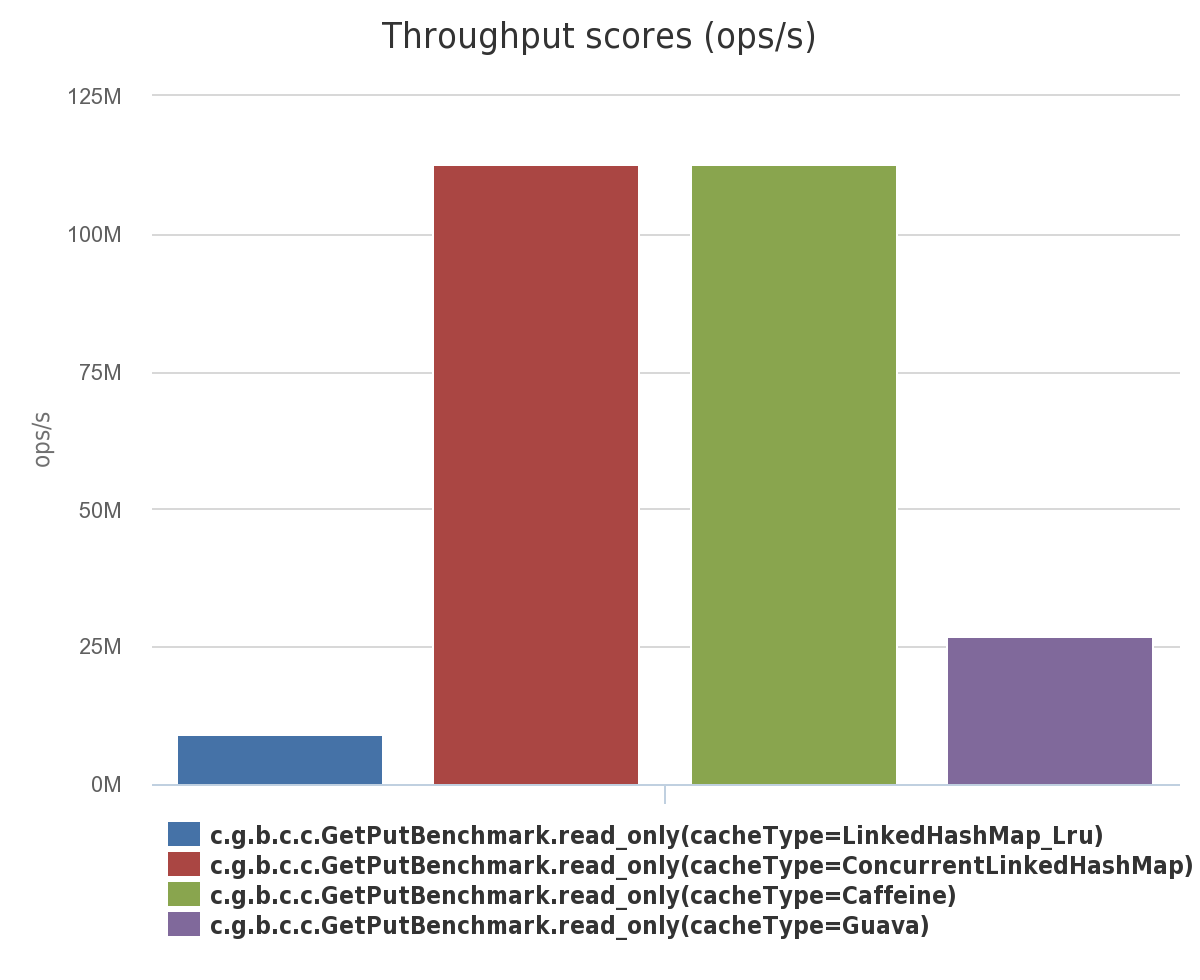
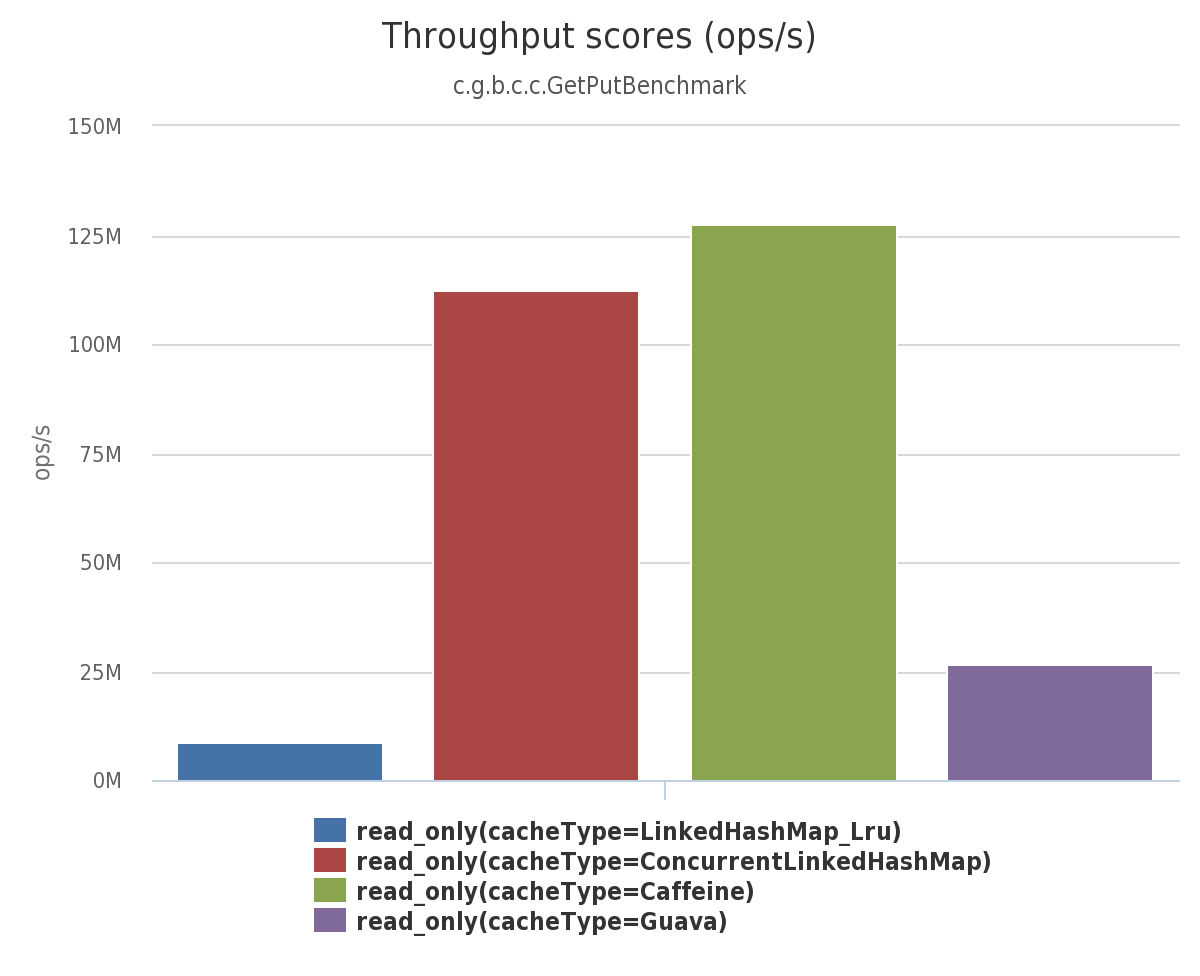
Pad the drain status field
Profiling shows that this field is hot, especially after the last change
which avoids the maintenance penalty on calling threads. By padding this
field the read performance is increased due to avoiding false sharing of
the cache line.

diff --git a/caffeine/src/main/java/com/github/benmanes/caffeine/cache/BoundedBuffer.java b/caffeine/src/main/java/com/github/benmanes/caffeine/cache/BoundedBuffer.java
@@ -57,7 +57,7 @@ final class BoundedBuffer<E> extends StripedBuffer<E> {
     return new RingBuffer<>(e);
   }
 
-  static final class RingBuffer<E> extends ReadAndWriteCounterRef implements Buffer<E> {
+  static final class RingBuffer<E> extends BBHeader.ReadAndWriteCounterRef implements Buffer<E> {
     final AtomicReference<E>[] buffer;
 
     @SuppressWarnings({"unchecked", "cast", "rawtypes"})
@@ -121,44 +121,48 @@ final class BoundedBuffer<E> extends StripedBuffer<E> {
   }
 }
 
-abstract class PadReadCounter {
-  long p00, p01, p02, p03, p04, p05, p06, p07;
-  long p30, p31, p32, p33, p34, p35, p36, p37;
-}
+/** The namespace for field padding through inheritance. */
+final class BBHeader {
 
-/** Enforces a memory layout to avoid false sharing by padding the read count. */
-abstract class ReadCounterRef extends PadReadCounter {
-  static final long READ_OFFSET =
-      UnsafeAccess.objectFieldOffset(ReadCounterRef.class, "readCounter");
-
-  volatile long readCounter;
-
-  void lazySetReadCounter(long count) {
-    UnsafeAccess.UNSAFE.putOrderedLong(this, READ_OFFSET, count);
-  }
-}
-
-abstract class PadWriteCounter extends ReadCounterRef {
-  long p00, p01, p02, p03, p04, p05, p06, p07;
-  long p30, p31, p32, p33, p34, p35, p36, p37;
-}
-
-/** Enforces a memory layout to avoid false sharing by padding the write count. */
-abstract class ReadAndWriteCounterRef extends PadWriteCounter {
-  static final long WRITE_OFFSET =
-      UnsafeAccess.objectFieldOffset(ReadAndWriteCounterRef.class, "writeCounter");
-
-  volatile long writeCounter;
-
-  ReadAndWriteCounterRef(int writes) {
-    UnsafeAccess.UNSAFE.putOrderedLong(this, WRITE_OFFSET, writes);
+  static abstract class PadReadCounter {
+    long p00, p01, p02, p03, p04, p05, p06, p07;
+    long p30, p31, p32, p33, p34, p35, p36, p37;
   }
 
-  long relaxedTail() {
-    return UnsafeAccess.UNSAFE.getLong(this, WRITE_OFFSET);
+  /** Enforces a memory layout to avoid false sharing by padding the read count. */
+  static abstract class ReadCounterRef extends PadReadCounter {
+    static final long READ_OFFSET =
+        UnsafeAccess.objectFieldOffset(ReadCounterRef.class, "readCounter");
+
+    volatile long readCounter;
+
+    void lazySetReadCounter(long count) {
+      UnsafeAccess.UNSAFE.putOrderedLong(this, READ_OFFSET, count);
+    }
   }
 
-  boolean casWriteCounter(long expect, long update) {
-    return UnsafeAccess.UNSAFE.compareAndSwapLong(this, WRITE_OFFSET, expect, update);
+  static abstract class PadWriteCounter extends ReadCounterRef {
+    long p00, p01, p02, p03, p04, p05, p06, p07;
+    long p30, p31, p32, p33, p34, p35, p36, p37;
+  }
+
+  /** Enforces a memory layout to avoid false sharing by padding the write count. */
+  static abstract class ReadAndWriteCounterRef extends PadWriteCounter {
+    static final long WRITE_OFFSET =
+        UnsafeAccess.objectFieldOffset(ReadAndWriteCounterRef.class, "writeCounter");
+
+    volatile long writeCounter;
+
+    ReadAndWriteCounterRef(int writes) {
+      UnsafeAccess.UNSAFE.putOrderedLong(this, WRITE_OFFSET, writes);
+    }
+
+    long relaxedTail() {
+      return UnsafeAccess.UNSAFE.getLong(this, WRITE_OFFSET);
+    }
+
+    boolean casWriteCounter(long expect, long update) {
+      return UnsafeAccess.UNSAFE.compareAndSwapLong(this, WRITE_OFFSET, expect, update);
+    }
   }
 }

diff --git a/caffeine/src/main/java/com/github/benmanes/caffeine/cache/BoundedLocalCache.java b/caffeine/src/main/java/com/github/benmanes/caffeine/cache/BoundedLocalCache.java
@@ -48,7 +48,6 @@ import java.util.concurrent.ConcurrentHashMap;
 import java.util.concurrent.Executor;
 import java.util.concurrent.ForkJoinPool;
 import java.util.concurrent.TimeUnit;
-import java.util.concurrent.atomic.AtomicReference;
 import java.util.concurrent.locks.Lock;
 import java.util.concurrent.locks.ReentrantLock;
 import java.util.function.BiFunction;
@@ -61,6 +60,8 @@ import javax.annotation.Nullable;
 import javax.annotation.concurrent.GuardedBy;
 import javax.annotation.concurrent.ThreadSafe;
 
+import com.github.benmanes.caffeine.base.UnsafeAccess;
+import com.github.benmanes.caffeine.cache.BoundedLocalCache.DrainStatus;
 import com.github.benmanes.caffeine.cache.References.InternalReference;
 import com.github.benmanes.caffeine.cache.stats.DisabledStatsCounter;
 import com.github.benmanes.caffeine.cache.stats.StatsCounter;
@@ -80,7 +81,8 @@ import com.github.benmanes.caffeine.locks.NonReentrantLock;
  * @param <V> the type of mapped values
  */
 @ThreadSafe
-abstract class BoundedLocalCache<K, V> extends AbstractMap<K, V> implements LocalCache<K, V> {
+abstract class BoundedLocalCache<K, V> extends BLCHeader.DrainStatusRef<K, V>
+    implements LocalCache<K, V> {
 
   /*
    * This class performs a best-effort bounding of a ConcurrentHashMap using a page-replacement
@@ -119,7 +121,6 @@ abstract class BoundedLocalCache<K, V> extends AbstractMap<K, V> implements Loca
   static final long MAXIMUM_CAPACITY = Long.MAX_VALUE - Integer.MAX_VALUE;
 
   final ConcurrentHashMap<Object, Node<K, V>> data;
-  final AtomicReference<DrainStatus> drainStatus;
   final Consumer<Node<K, V>> accessPolicy;
   final Buffer<Node<K, V>> readBuffer;
   final Runnable drainBuffersTask;
@@ -139,7 +140,6 @@ abstract class BoundedLocalCache<K, V> extends AbstractMap<K, V> implements Loca
     this.isAsync = isAsync;
     weigher = builder.getWeigher(isAsync);
     id = tracer().register(builder.name());
-    drainStatus = new AtomicReference<DrainStatus>(IDLE);
     data = new ConcurrentHashMap<>(builder.getInitialCapacity());
     evictionLock = builder.hasExecutor() ? new ReentrantLock() : new NonReentrantLock();
     nodeFactory = NodeFactory.getFactory(builder.isStrongKeys(), builder.isWeakKeys(),
@@ -495,7 +495,7 @@ abstract class BoundedLocalCache<K, V> extends AbstractMap<K, V> implements Loca
    * @param delayable if draining the read buffer can be delayed
    */
   void drainOnReadIfNeeded(boolean delayable) {
-    final DrainStatus status = drainStatus.get();
+    final DrainStatus status = drainStatus;
     if (status.shouldDrainBuffers(delayable)) {
       scheduleDrainBuffers();
     }
@@ -516,7 +516,7 @@ abstract class BoundedLocalCache<K, V> extends AbstractMap<K, V> implements Loca
     if (buffersWrites()) {
       writeQueue().add(task);
     }
-    drainStatus.lazySet(REQUIRED);
+    lazySetDrainStatus(REQUIRED);
     scheduleDrainBuffers();
   }
 
@@ -527,7 +527,7 @@ abstract class BoundedLocalCache<K, V> extends AbstractMap<K, V> implements Loca
   void scheduleDrainBuffers() {
     if (evictionLock.tryLock()) {
       try {
-        drainStatus.lazySet(PROCESSING);
+        lazySetDrainStatus(PROCESSING);
         executor().execute(drainBuffersTask);
       } catch (Throwable t) {
         cleanUp();
@@ -542,10 +542,10 @@ abstract class BoundedLocalCache<K, V> extends AbstractMap<K, V> implements Loca
   public void cleanUp() {
     evictionLock.lock();
     try {
-      drainStatus.lazySet(PROCESSING);
+      lazySetDrainStatus(PROCESSING);
       maintenance();
     } finally {
-      drainStatus.compareAndSet(PROCESSING, IDLE);
+      casDrainStatus(PROCESSING, IDLE);
       evictionLock.unlock();
     }
   }
@@ -1930,6 +1930,31 @@ abstract class BoundedLocalCache<K, V> extends AbstractMap<K, V> implements Loca
       proxy.loader = loader;
       proxy.async = true;
       return proxy;
+    }
+  }
+}
+
+/** The namespace for field padding through inheritance. */
+final class BLCHeader {
+
+  static abstract class PadDrainStatus<K, V> extends AbstractMap<K, V> {
+    long p00, p01, p02, p03, p04, p05, p06, p07;
+    long p30, p31, p32, p33, p34, p35, p36, p37;
+  }
+
+  /** Enforces a memory layout to avoid false sharing by padding the drain status. */
+  static abstract class DrainStatusRef<K, V> extends PadDrainStatus<K, V> {
+    static final long DRAIN_STATUS_OFFSET =
+        UnsafeAccess.objectFieldOffset(DrainStatusRef.class, "drainStatus");
+
+    volatile DrainStatus drainStatus = IDLE;
+
+    void lazySetDrainStatus(DrainStatus drainStatus) {
+      UnsafeAccess.UNSAFE.putOrderedObject(this, DRAIN_STATUS_OFFSET, drainStatus);
+    }
+
+    boolean casDrainStatus(DrainStatus expect, DrainStatus update) {
+      return UnsafeAccess.UNSAFE.compareAndSwapObject(this, DRAIN_STATUS_OFFSET, expect, update);
     }
   }
 }

diff --git a/caffeine/src/test/java/com/github/benmanes/caffeine/cache/BoundedLocalCacheTest.java b/caffeine/src/test/java/com/github/benmanes/caffeine/cache/BoundedLocalCacheTest.java
@@ -316,7 +316,7 @@ public final class BoundedLocalCacheTest {
     BoundedLocalCache<Integer, Integer> localCache = asBoundedLocalCache(cache);
     AtomicBoolean done = new AtomicBoolean();
     Runnable task = () -> {
-      localCache.drainStatus.lazySet(DrainStatus.REQUIRED);
+      localCache.lazySetDrainStatus(DrainStatus.REQUIRED);
       localCache.scheduleDrainBuffers();
       done.set(true);
     };
@@ -360,7 +360,7 @@ public final class BoundedLocalCacheTest {
     lock.lock();
     try {
       executor.execute(() -> {
-        localCache.drainStatus.lazySet(DrainStatus.REQUIRED);
+        localCache.lazySetDrainStatus(DrainStatus.REQUIRED);
         task.run();
         done.set(true);
       });

diff --git a/caffeine/src/test/java/com/github/benmanes/caffeine/cache/Stresser.java b/caffeine/src/test/java/com/github/benmanes/caffeine/cache/Stresser.java
@@ -98,7 +98,7 @@ public final class Stresser {
         System.out.printf("---------- %s ----------%n", elapsedTime);
         System.out.printf("Pending reads = %s%n", pendingReads);
         System.out.printf("Pending write = %s%n", pendingWrites);
-        System.out.printf("Drain status = %s%n", local.drainStatus.get());
+        System.out.printf("Drain status = %s%n", local.drainStatus);
         System.out.printf("Evictions = %,d%n", evictions.intValue());
         System.out.printf("Lock = %s%n", local.evictionLock);
       }